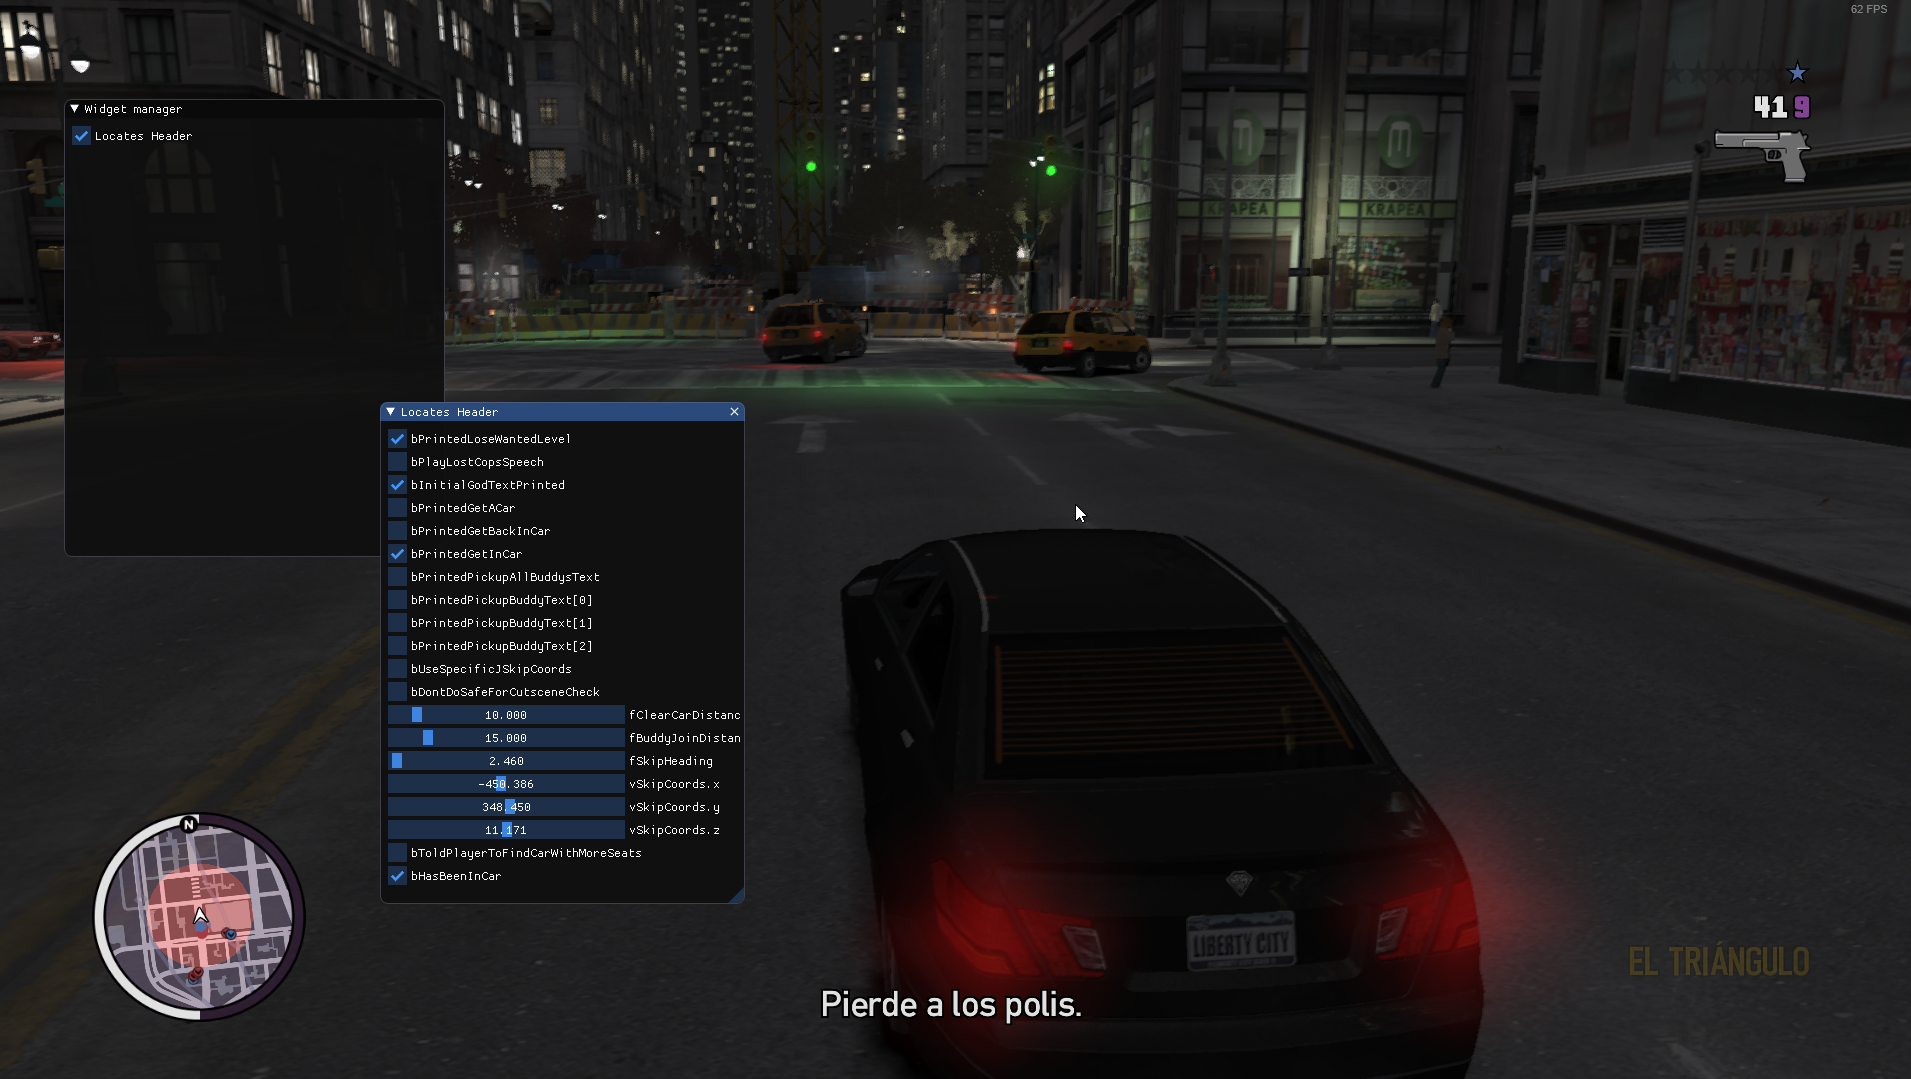
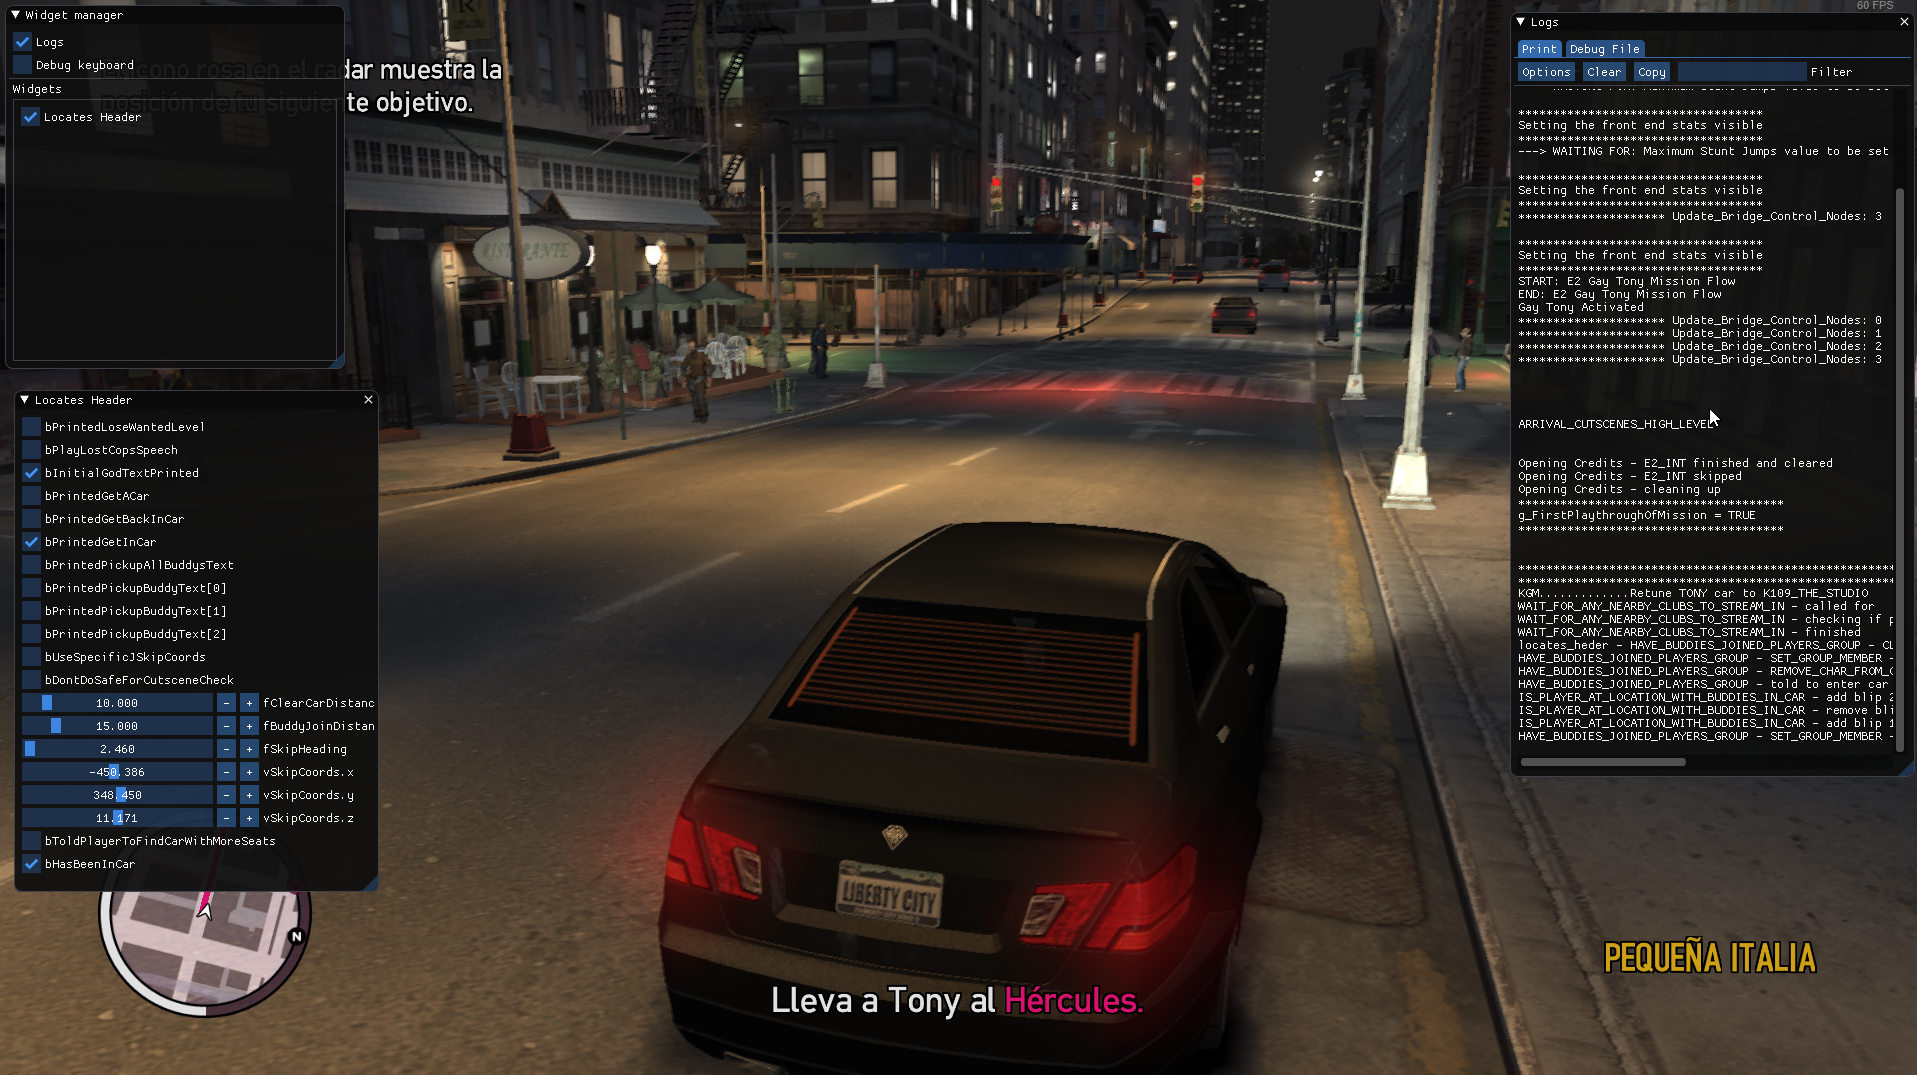
Update README

diff --git a/README.md b/README.md
@@ -1,6 +1,6 @@
 # Widgets
 
-This script for Grand Theft Auto IV reimplements widget related natives allowing you to interact with some debugging tools left in the scripts.
+This script for Grand Theft Auto IV reimplements some debug and widget related natives allowing you to interact with some debugging tools left in the scripts.
 
 The following natives are reimplemented:
 
@@ -21,6 +21,24 @@ The following natives are reimplemented:
 - ADD_TEXT_WIDGET
 - GET_CONTENTS_OF_TEXT_WIDGET
 - SET_CONTENTS_OF_TEXT_WIDGET
+- SAVE_INT_TO_DEBUG_FILE
+- SAVE_FLOAT_TO_DEBUG_FILE
+- SAVE_NEWLINE_TO_DEBUG_FILE
+- SAVE_STRING_TO_DEBUG_FILE
+- PRINTSTRING
+- PRINTFLOAT
+- PRINTFLOAT2
+- PRINTINT
+- PRINTINT2
+- PRINTNL
+- PRINTVECTOR
+- SCRIPT_ASSERT
+- IS_KEYBOARD_KEY_PRESSED
+- IS_KEYBOARD_KEY_JUST_PRESSED
+
+PRINT\*, SAVE\_\*\_TO\_DEBUG_FILE and SCRIPT\_ASSERT natives are redirected to a logs window.
+
+IS\_KEYBOARD\_KEY\_\[JUST\_\]PRESSED natives can be enabled or disabled in-game.
 
 Note, this was just a quick project I wanted to do to see the leftover debugging tools so there may be some issues, for example, the widgets are never deleted, not even when the game is reloaded or when the script that created them is killed, which will probably cause some issues or crashes eventually. And it may not be compatible with other scripts that hook the D3D9 rendering.
 
